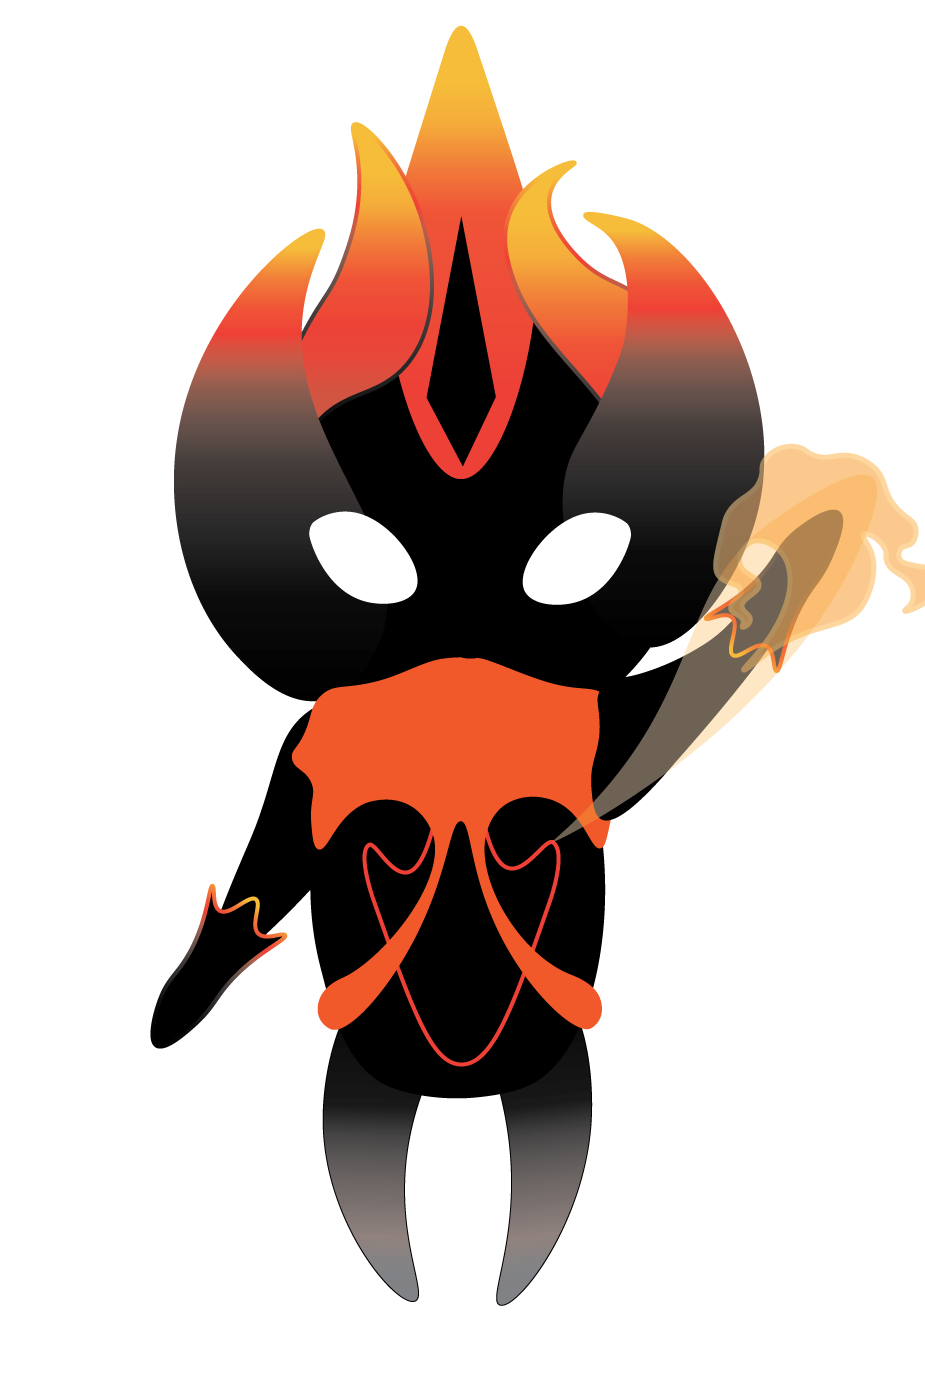
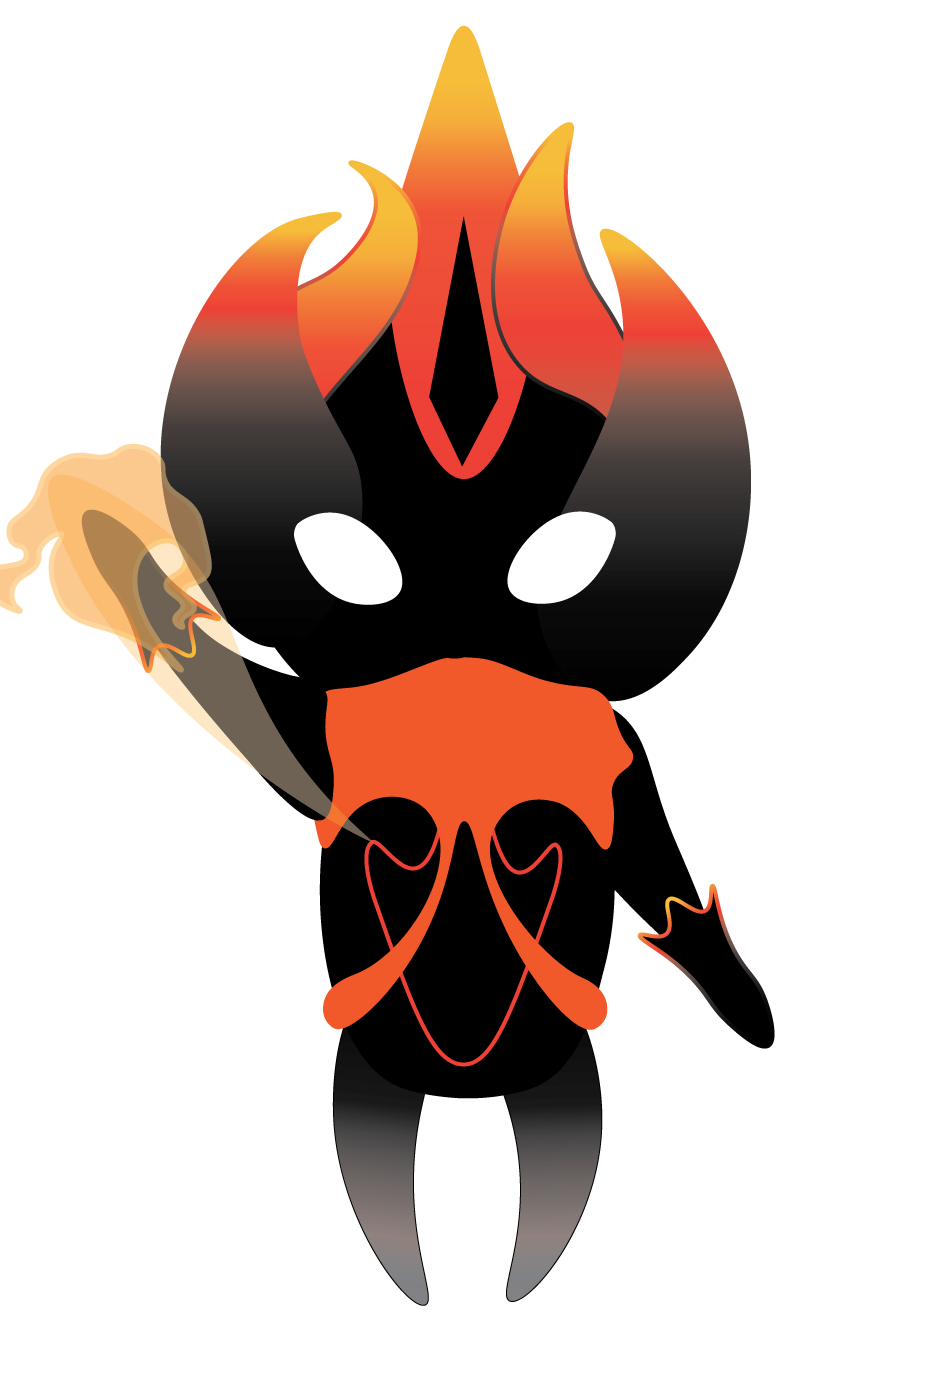
changes to melee animations and prelim dash ani

diff --git a/character_objects.js b/character_objects.js
@@ -31,7 +31,14 @@ function main_character() {
 	this.right_melee = new Array; this.right_melee.push(assets["mc_melee_right_1"]); this.right_melee.push(assets["mc_melee_right_2"]); this.right_melee.push(assets["mc_melee_right_3"]); this.right_melee.push(assets["mc_melee_right_4"]);
 
 	this.left_melee = new Array; this.left_melee.push(assets["mc_melee_left_1"]); this.left_melee.push(assets["mc_melee_left_2"]); this.left_melee.push(assets["mc_melee_left_3"]); this.left_melee.push(assets["mc_melee_left_4"]);
+	
+	this.death = new Array; this.death.push(assets["mc_death_1"]); this.death.push(assets["mc_death_2"]); this.death.push(assets["mc_death_3"]); this.death.push(assets["mc_death_4"]); this.death.push(assets["mc_death_5"]); this.death.push(assets["mc_death_6"]); this.death.push(assets["mc_death_7"]); this.death.push(assets["mc_death_8"]);
 
+	this.right_dash = new Array; this.right_dash.push(assets["mc_dash_right"]); this.right_dash.push(assets["mc_right_1"]);
+	this.left_dash = new Array; this.left_dash.push(assets["mc_dash_left"]); this.left_dash.push(assets["mc_left_1"]);
+	this.up_dash = new Array; this.up_dash.push(assets["mc_dash_up"]); this.up_dash.push(assets["mc_up_1"]);
+	this.down_dash = new Array; this.down_dash.push(assets["mc_dash_down"]); this.down_dash.push(assets["mc_down_1"]);
+	
 	this.image_index = 0;
 	this.image_speed_max = 7;  
 	this.image_speed_counter = 0;
@@ -87,6 +94,11 @@ function main_character() {
 	this.dashXInc;
 	this.dashYInc;
 	this.dashWindD = 1.25;
+	
+	this.particleStartX = 0;
+	this.particleStartY = 0;
+	this.particleTargetX = 0;
+	this.particleTargetY = 0;
 	
 	this.beaming = false;
 	this.aiming = false;
@@ -151,7 +163,7 @@ function main_character() {
 			MC.beam();
 		}
 	   
-	    if(this.dashing == false){
+	    if(this.dashing == false && this.active_animation != this.death){
 			//reset the dashing values
 			this.dashXInc = 0;
 			this.dashYInc = 0;
@@ -239,9 +251,9 @@ function main_character() {
 			}
 	    }
 
-	    else{
+	    else if(this.active_animation != this.death){
 			//spawn fireball effect
-			var f = new fireParticle(this.canvasX- this.sprite.width / 2, this.canvasY - this.sprite.height / 2, this.sprite.height, 10);
+			var f = new fireParticle(this.canvasX- this.sprite.width / 2, this.canvasY - this.sprite.height / 2, this.sprite.height, 10, "dash");
 			main_stage.push(f);
 			
 			//wind-down proportionally for dash
@@ -278,9 +290,11 @@ function main_character() {
 			this.canvasYSpeed = 0;
 		}
 		
-		//re-enable dash
+		//re-enable dash when dash ends
 		if(this.dashing == true && (this.canvasXSpeed == 0 && this.canvasYSpeed == 0)){
 			this.dashing = false;
+			//start playing dash animation
+			this.animating = true;
 		}
 		
 		this.mapX = toMapX(this.canvasX);
@@ -470,6 +484,10 @@ function main_character() {
 			//mouseX and mouseY
 			var slopeX = mouseX - this.canvasX;
 			var slopeY = mouseY - this.canvasY;
+			this.particleTargetX = mouseX;
+			this.particleTargetY = mouseY;
+			this.particleStartX = this.canvasX;
+			this.particleStartY = this.canvasY;
 			var distance = Math.sqrt(Math.pow((mouseX - this.canvasX), 2)
 								 + Math.pow((mouseY - this.canvasY), 2));
 			
@@ -486,6 +504,15 @@ function main_character() {
 			
 			this.fp -= this.dashCost;
 			this.dashCool = this.dashCoolMax;
+			
+			//animation
+			//show a still image that is higher priority to walking
+			this.animated = false;
+			this.animating = true;
+			if(this.look_direc == "south"){ this.active_animation = this.down_dash; }
+			if(this.look_direc == "north"){ this.active_animation = this.up_dash; }
+			if(this.look_direc == "west"){ this.active_animation = this.left_dash; }
+			if(this.look_direc == "east"){ this.active_animation = this.right_dash; }
 		}
 	}
 	
@@ -521,21 +548,34 @@ function main_character() {
 				this.safetyTimer = this.safetyTimerMax;
 				this.vulnerable = false;
 			}
-			else{
+			else if(this.active_animation != this.death){
 				this.die();
 			}
 		}
 	}
 	
 	this.die = function(){
-		//reset the game
-		reset_game();
+		this.animated = true;
+		this.animating = true;
+		this.active_animation = this.death;
+		this.canvasXSpeed = 0;
+		this.canvasYSpeed = 0;
+		//set this animation to play slower
+		this.image_speed_counter = 20;
 	}
 	
 	this.end_animation = function(target){
 		//called when the current animation ends
 		if(target == "melee"){
 			this.animating = false;
+		}
+		if(target == "death"){
+			this.animating = false;
+			reset_game();
+		}
+		if(target == "dash"){
+			//this.animating = false;
+			//this.animated = false;
 		}
 	}
 	

diff --git a/sprites.js b/sprites.js
@@ -38,7 +38,23 @@ function load_sprites(){
 	var mc_melee_down_2 = new Image();  mc_melee_down_2.src = 'images/melee_down/phoenix_melee2.png';
 	var mc_melee_down_3 = new Image();  mc_melee_down_3.src = 'images/melee_down/phoenix_melee3.png';
 	var mc_melee_down_4 = new Image();  mc_melee_down_4.src = 'images/melee_down/phoenix_melee4.png';
-
+	
+	var mc_death_1 = new Image(); mc_death_1.src = 'images/death/phoenix_death1.png';
+	var mc_death_2 = new Image(); mc_death_2.src = 'images/death/phoenix_death2.png';
+	var mc_death_3 = new Image(); mc_death_3.src = 'images/death/phoenix_death3.png';
+	var mc_death_4 = new Image(); mc_death_4.src = 'images/death/phoenix_death4.png';
+	var mc_death_5 = new Image(); mc_death_5.src = 'images/death/phoenix_death5.png';
+	var mc_death_6 = new Image(); mc_death_6.src = 'images/death/phoenix_death6.png';
+	var mc_death_7 = new Image(); mc_death_7.src = 'images/death/phoenix_death7.png';
+	var mc_death_8 = new Image(); mc_death_8.src = 'images/death/phoenix_death8.png';
+	
+	var mc_dash_ball = new Image(); mc_dash_ball.src = 'images/dash/dash.png';
+	var mc_dash_right = new Image(); mc_dash_right.src = 'images/dash/phoenix_dash_right.png';
+	var mc_dash_left = new Image(); mc_dash_left.src = 'images/dash/phoenix_dash_left.png';
+	var mc_dash_down = new Image(); mc_dash_down.src = 'images/dash/phoenix_dash_down.png';
+	var mc_dash_up = new Image(); mc_dash_up.src = 'images/dash/phoenix_dash_up.png';
+	
+	
 	var sScorpion = new Image();
 	sScorpion.src = 'images/enemies/seascorpion.png';
 
@@ -89,6 +105,21 @@ function load_sprites(){
 		mc_melee_up_2: mc_melee_up_2,
 		mc_melee_up_3: mc_melee_up_3,
 		mc_melee_up_4: mc_melee_up_4,
+		
+		mc_death_1: mc_death_1,
+		mc_death_2: mc_death_2,
+		mc_death_3: mc_death_3,
+		mc_death_4: mc_death_4,
+		mc_death_5: mc_death_5,
+		mc_death_6: mc_death_6,
+		mc_death_7: mc_death_7,
+		mc_death_8: mc_death_8,
+		
+		mc_dash_ball: mc_dash_ball,
+		mc_dash_right: mc_dash_right,
+		mc_dash_left: mc_dash_left,
+		mc_dash_down: mc_dash_down,
+		mc_dash_up: mc_dash_up,
 		
 		sScorpion: sScorpion,
 		

diff --git a/fireParticle.js b/fireParticle.js
@@ -10,17 +10,19 @@
  *
  */
  
-function fireParticle(x, y, r, t){
-	this.sprite = new Image();
-	this.sprite.src = 'http://people.ucsc.edu/~djchambe/cm120/fireball.png';
-	this.sprite.width = r * 2;
-	this.sprite.height = r * 2;
-	
-	//this.mapX = x;
-	//this.mapY = y;
-	
-	//this.canvasX = toCanvasX(this.mapX);
-	//this.canvasY = toCanvasY(this.mapY);
+function fireParticle(x, y, r, t, use){
+	if(use == "dash"){
+		this.sprite = new Image();
+	    this.sprite.src = assets["mc_dash_ball"].src;
+		this.sprite.width = r * 2;
+		this.sprite.height = r * 2;
+	}
+	else {
+		this.sprite = new Image();
+		this.sprite.src = 'http://people.ucsc.edu/~djchambe/cm120/fireball.png';
+		this.sprite.width = r * 2;
+		this.sprite.height = r * 2;
+	}
 	
 	this.canvasX = x;
 	this.canvasY = y;
@@ -31,6 +33,7 @@ function fireParticle(x, y, r, t){
 	this.timer = t;
 	
 	this.shrinker = this.sprite.width / this.timer;
+	console.log("shrinker: "+this.shrinker)
 	
 	this.update = function(){
 		if(this.timer> 0){
@@ -49,11 +52,28 @@ function fireParticle(x, y, r, t){
 	}
 	
 	this.draw = function(){
-		context.drawImage(this.sprite, this.canvasX, this.canvasY, this.sprite.width, this.sprite.height);
+		if(use == "dash"){
+			context.save();
+			context.translate(this.canvasX + this.sprite.width/2, this.canvasY + this.sprite.height/2);
+			context.rotate(this.rotateEnemy()*(Math.PI/180) + Math.PI/2);
+			context.drawImage(this.sprite, -this.sprite.width/2, -this.sprite.height/2, this.sprite.width, this.sprite.height);
+			context.restore();
+		}
+		else{
+			context.drawImage(this.sprite, this.canvasX, this.canvasY, this.sprite.width, this.sprite.height);
+		}
 	}
 	
 	this.destroy = function(){
 		//console.log(main_stage);
 		main_stage.destroy(this);
+	}
+	
+	this.rotateEnemy = function(){
+		var tm = angleDeg(MC.particleStartX, MC.particleStartY, MC.particleTargetX, MC.particleTargetY);
+		if(tm < 0){
+			tm = 360 - (-tm);
+		}
+		return tm
 	}
 }

diff --git a/animations.js b/animations.js
@@ -24,6 +24,12 @@ function draw_animated_sprite(spr_arr, owner, cX, cY, spr_w, spr_h){
 				console.log("melee animation");
 				owner.end_animation("melee");
 			}
+			if(spr_arr == MC.death){
+				owner.end_animation("death");
+			}
+			if(spr_arr == MC.right_dash || spr_arr == MC.left_dash || spr_arr == MC.up_dash || spr_arr == MC.down_dash){
+				owner.end_animation("dash");
+			}
 			
 			owner.image_index = 0;
 		}

diff --git a/enemy_A.js b/enemy_A.js
@@ -66,7 +66,7 @@ function enemy_a(x, y){
 		
 		if(this.stunned == false){
 			
-			if(this.hitbox.active == true){
+			if(this.hitbox.active == true && MC.active_animation != MC.death){
 			    this.moveTowards(MC);
 			
 			    this.mapX += this.mapXSpeed * this.speed;
